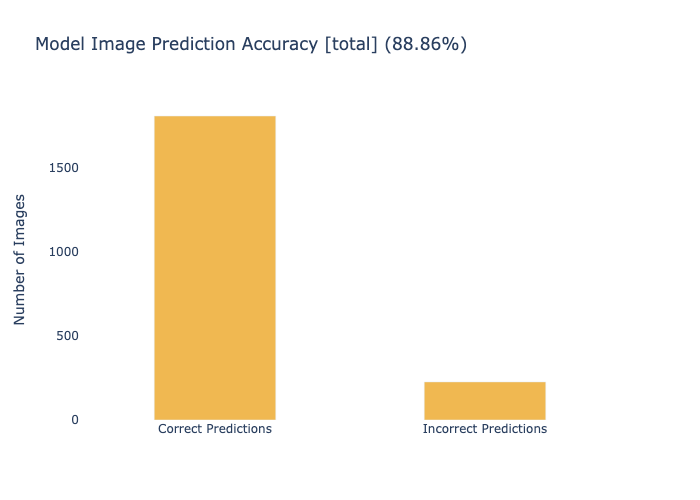
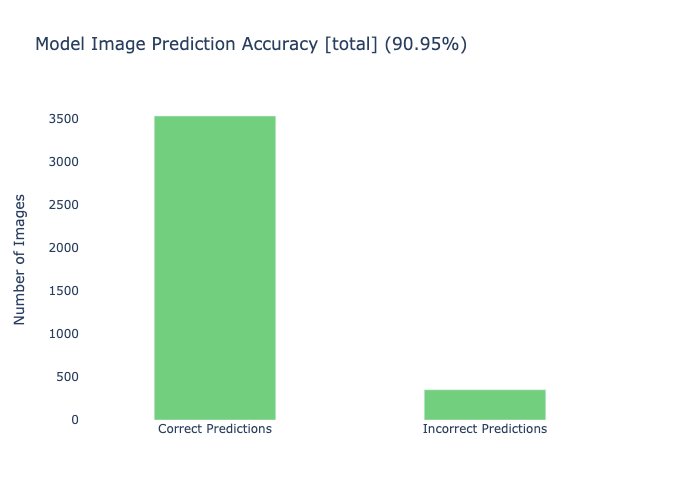
test

diff --git a/service/test/image_processing_service_test.py b/service/test/image_processing_service_test.py
@@ -270,3 +270,125 @@ class ProcessingServiceTest:
         print(interior)
 
         return result, collections
+
+    @staticmethod
+    def process_images_for_retraining_view_v3():
+        uniqueness_check = []
+
+        THUMB_URL = "http://localhost:8000/"
+        THUMB_PREFIX = "photo-thumb/"
+        image_id_aerial_from = random.randint(1, 1019)
+        image_id_interior_from = random.randint(1020, 2038)
+        user_id = random.randint(1, 100)
+        counter = 0
+
+        result = []
+        collections = {}
+
+        ground = {"ground_correct": 0, "ground_wrong": 0}
+        raised = {"raised_correct": 0, "raised_wrong": 0}
+        aerial = {"aerial_correct": 0, "aerial_wrong": 0}
+        
+        while counter != 500:
+            image_id_aerial_from = random.randint(1, 33)
+            user_id = random.randint(1, 100)
+            try:
+                # Ensure only 1 feedback per image from a user
+                if [user_id, image_id_aerial_from] in uniqueness_check:
+                    print("AERIAL: Uniqueness break")
+                    continue
+                else:
+                    uniqueness_check.append([user_id, image_id_aerial_from])
+
+                url = f"{THUMB_URL}{THUMB_PREFIX}{image_id_aerial_from}"
+                with urllib.request.urlopen(url) as url_response:
+                    img_data = url_response.read()
+                    verdict_to_aerial = random.randint(0, 2)
+                    #
+                    # handle_processed_image(collections, "exterior", image_id_aerial_from,
+                    #                        "exterior" if verdict_to_aerial == 1 else "interior")
+
+                    if verdict_to_aerial in [0, 1]:
+                        aerial["aerial_wrong"] = aerial["aerial_wrong"] + 1
+                    else:
+                        aerial["aerial_correct"] = aerial["aerial_correct"] + 1
+                    result.append(
+                        ProcessingImage(user_id, image_id_aerial_from, img_data, verdict_view_point_elevation=verdict_to_aerial))
+            except Exception as e:
+                print(e)
+                print("EXCEPTION")
+            counter += 1
+
+        print(aerial)
+
+        counter = 0
+
+        while counter != 500:
+            image_id_raised_from = random.randint(34, 335)
+            user_id = random.randint(1, 100)
+            try:
+                # Ensure only 1 feedback per image from a user
+                if [user_id, image_id_raised_from] in uniqueness_check:
+                    print("RAISED: Uniqueness break")
+                    continue
+                else:
+                    uniqueness_check.append([user_id, image_id_raised_from])
+
+                url = f"{THUMB_URL}{THUMB_PREFIX}{image_id_raised_from}"
+                with urllib.request.urlopen(url) as url_response:
+                    img_data = url_response.read()
+                    verdict_to_raised = random.randint(0, 2)
+                    #
+                    # handle_processed_image(collections, "exterior", image_id_aerial_from,
+                    #                        "exterior" if verdict_to_aerial == 1 else "interior")
+
+                    if verdict_to_raised in [0, 2]:
+                        raised["raised_wrong"] = raised["raised_wrong"] + 1
+                    else:
+                        raised["raised_correct"] = raised["raised_correct"] + 1
+                    result.append(
+                        ProcessingImage(user_id, image_id_raised_from, img_data, verdict_view_point_elevation=verdict_to_raised))
+            except Exception as e:
+                print(e)
+                print("EXCEPTION")
+            counter += 1
+
+        print(raised)
+
+        counter = 0
+
+        while counter != 500:
+            image_id_ground_from = random.randint(336, 3891)
+            user_id = random.randint(1, 100)
+            try:
+                # Ensure only 1 feedback per image from a user
+                if [user_id, image_id_ground_from] in uniqueness_check:
+                    print("GROUND: Uniqueness break")
+                    continue
+                else:
+                    uniqueness_check.append([user_id, image_id_ground_from])
+
+                url = f"{THUMB_URL}{THUMB_PREFIX}{image_id_ground_from}"
+                with urllib.request.urlopen(url) as url_response:
+                    img_data = url_response.read()
+                    verdict_to_ground = random.randint(0, 2)
+                    #
+                    # handle_processed_image(collections, "exterior", image_id_aerial_from,
+                    #                        "exterior" if verdict_to_aerial == 1 else "interior")
+
+                    if verdict_to_ground in [1, 2]:
+                        ground["ground_wrong"] = ground["ground_wrong"] + 1
+                    else:
+                        ground["ground_correct"] = ground["ground_correct"] + 1
+                    result.append(
+                        ProcessingImage(user_id, image_id_ground_from, img_data,
+                                        verdict_view_point_elevation=verdict_to_ground))
+            except Exception as e:
+                print(e)
+                print("EXCEPTION")
+            counter += 1
+
+        print(ground)
+
+        return result, collections
+

diff --git a/service/model/image_view_point_elevation_model_prediction.py b/service/model/image_view_point_elevation_model_prediction.py
@@ -120,48 +120,48 @@ class ViewPointElevationPrediction:
 
         return predictions
 
-    # @staticmethod
-    # def retrain_model(processed_images):
-    #     new_images = []  # List to store preprocessed images
-    #     new_labels = []  # List to store corresponding labels
-    #
-    #     for image in processed_images:
-    #         image_data = image.image_for_processing
-    #         label = image.verdict_scene
-    #
-    #         # Convert the image data to a PIL image
-    #         pil_image = Image.open(io.BytesIO(image_data)).convert("RGB")
-    #
-    #         # Resize the image to the desired dimensions (IMG_WIDTH, IMG_HEIGHT)
-    #         pil_image = pil_image.resize((IMG_WIDTH, IMG_HEIGHT))
-    #
-    #         # Convert the PIL image to a numpy array
-    #         np_image = np.array(pil_image)
-    #
-    #         # Normalize the image data
-    #         np_image = np_image.astype('float32') / 255.0
-    #
-    #         new_images.append(np_image)
-    #         new_labels.append(label)
-    #
-    #     new_images = np.array(new_images)
-    #     new_labels = np.array(new_labels)
-    #
-    #     num_classes = 1  # Assuming there are 2 classes: interior and exterior
-    #
-    #     # Load the saved model
-    #     model = tensorflow.keras.models.load_model(ScenePrediction.model_path)
-    #
-    #     # Remove the last layer (output layer) to match the original model architecture
-    #     model.pop()
-    #
-    #     # Retrain the model with binary cross-entropy
-    #     model.compile(optimizer='adam', loss='binary_crossentropy', metrics=['accuracy'])
-    #     model.fit(new_images, new_labels, epochs=20, validation_split=0.2)  # You can adjust the validation split
-    #
-    #     # Save the retrained model
-    #     model.save(ScenePrediction.model_path)
-    #     print("Model is retrained")
+    @staticmethod
+    def retrain_model(processed_images):
+        new_images = []  # List to store preprocessed images
+        new_labels = []  # List to store corresponding labels
+
+        for image in processed_images:
+            image_data = image.image_for_processing
+            label = image.verdict_scene
+
+            # Convert the image data to a PIL image
+            pil_image = Image.open(io.BytesIO(image_data)).convert("RGB")
+
+            # Resize the image to the desired dimensions (IMG_WIDTH, IMG_HEIGHT)
+            pil_image = pil_image.resize((IMG_WIDTH, IMG_HEIGHT))
+
+            # Convert the PIL image to a numpy array
+            np_image = np.array(pil_image)
+
+            # Normalize the image data
+            np_image = np_image.astype('float32') / 255.0
+
+            new_images.append(np_image)
+            new_labels.append(label)
+
+        new_images = np.array(new_images)
+        new_labels = np.array(new_labels)
+
+        num_classes = 3  # Assuming there are 2 classes: interior and exterior
+
+        # Load the saved model
+        model = tensorflow.keras.models.load_model(ViewPointElevationPrediction.model_path)
+
+        # Remove the last layer (output layer) to match the original model architecture
+        model.pop()
+
+        # Retrain the model with binary cross-entropy
+        model.compile(optimizer='adam', loss='categorical_crossentropy', metrics=['accuracy'])
+        model.fit(new_images, new_labels, epochs=20, validation_split=0.2)  # You can adjust the validation split
+
+        # Save the retrained model
+        model.save(ViewPointElevationPrediction.model_path)
+        print("Model is retrained")
 
     # @staticmethod
     # def retrain_model(processed_images):

diff --git a/jobs/jobs.py b/jobs/jobs.py
@@ -22,7 +22,7 @@ def aggregate_and_retrain_model():
         print(f"{IMAGE_AGGREGATION}: Data for retraining fetched successfully\n")
 
         # images_ready_for_processing = ProcessingService.process_images_for_retraining(response.content)
-        processed_images = ProcessingServiceTest.process_images_for_retraining_v3()  # Mock data
+        processed_images = ProcessingServiceTest.process_images_for_retraining_view_v3()  # Mock data
 
         images_ready_for_processing = processed_images[0]
         collected_report = processed_images[1]
@@ -32,17 +32,17 @@ def aggregate_and_retrain_model():
         else:
             print(f"{IMAGE_AGGREGATION}: {len(images_ready_for_processing)} images taken for retraining")
 
-            images_processed_through_data_quality_engine = \
-                DataQuality.exclude_faulty_feedback_v3(images_ready_for_processing)
+            # images_processed_through_data_quality_engine = \
+            #     DataQuality.exclude_faulty_feedback_v3(images_ready_for_processing)
+            #
+            # images_ready_for_processing = images_processed_through_data_quality_engine[0]
+            # images_excluded = images_processed_through_data_quality_engine[1]
+            #
+            # # REPORT
+            # DataQualityValidation.prepare_report(collected_report, images_excluded)
 
-            images_ready_for_processing = images_processed_through_data_quality_engine[0]
-            images_excluded = images_processed_through_data_quality_engine[1]
-
-            # REPORT
-            DataQualityValidation.prepare_report(collected_report, images_excluded)
-
-            print(
-                f"{IMAGE_AGGREGATION}: {len(images_excluded)} feedbacks excluded")
+            # print(
+            #     f"{IMAGE_AGGREGATION}: {len(images_excluded)} feedbacks excluded")
             print(
                 f"{IMAGE_AGGREGATION}: {len(images_ready_for_processing)} feedbacks taken for retraining after quality engine")
             ScenePrediction.retrain_model(images_ready_for_processing)

diff --git a/vizualization_tools/model accuracy_validation.py b/vizualization_tools/model accuracy_validation.py
@@ -2,11 +2,12 @@ import plotly.express as px
 import plotly.io as pio
 
 # Number of total images
-total_images = 2038
+total_images = 3889
 
 # Number of correctly predicted images
 # correct_predictions = 955
-correct_predictions = 1811
+# correct_predictions = 3
+correct_predictions = 3537
 
 # Calculate the accuracy percentage
 accuracy_percentage = (correct_predictions / total_images) * 100
@@ -17,7 +18,7 @@ fig = px.bar(
     y=[correct_predictions, total_images - correct_predictions],
     labels={"x": "Prediction Results", "y": "Number of Images"},
     title=f"Model Image Prediction Accuracy [total] ({accuracy_percentage:.2f}%)",
-    color_discrete_sequence=["#f0b851", "#f0b851"]
+    color_discrete_sequence=["#72cf7e", "#72cf7e"]
 )
 
 # Customize the background color to white

diff --git a/jobs/updater.py b/jobs/updater.py
@@ -4,7 +4,7 @@ from apscheduler.schedulers.background import BackgroundScheduler
 def start():
     from .jobs import aggregate_and_retrain_model, categorize_uncategorized_images
     scheduler = BackgroundScheduler()
-    scheduler.add_job(aggregate_and_retrain_model, 'interval', hours=5)  #TODO: review
+    scheduler.add_job(aggregate_and_retrain_model, 'interval', minutes=5)  #TODO: review
     scheduler.add_job(categorize_uncategorized_images, 'interval', minutes=1)
 
     scheduler.start()
